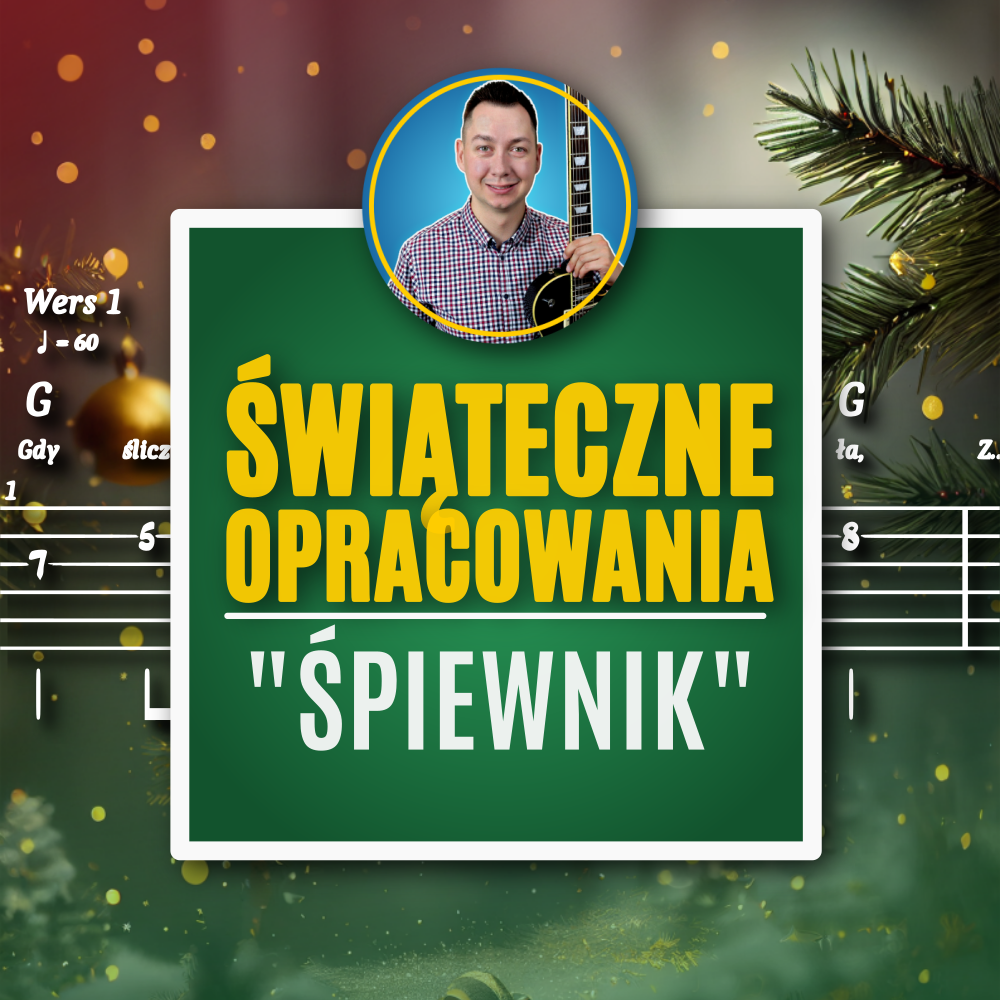
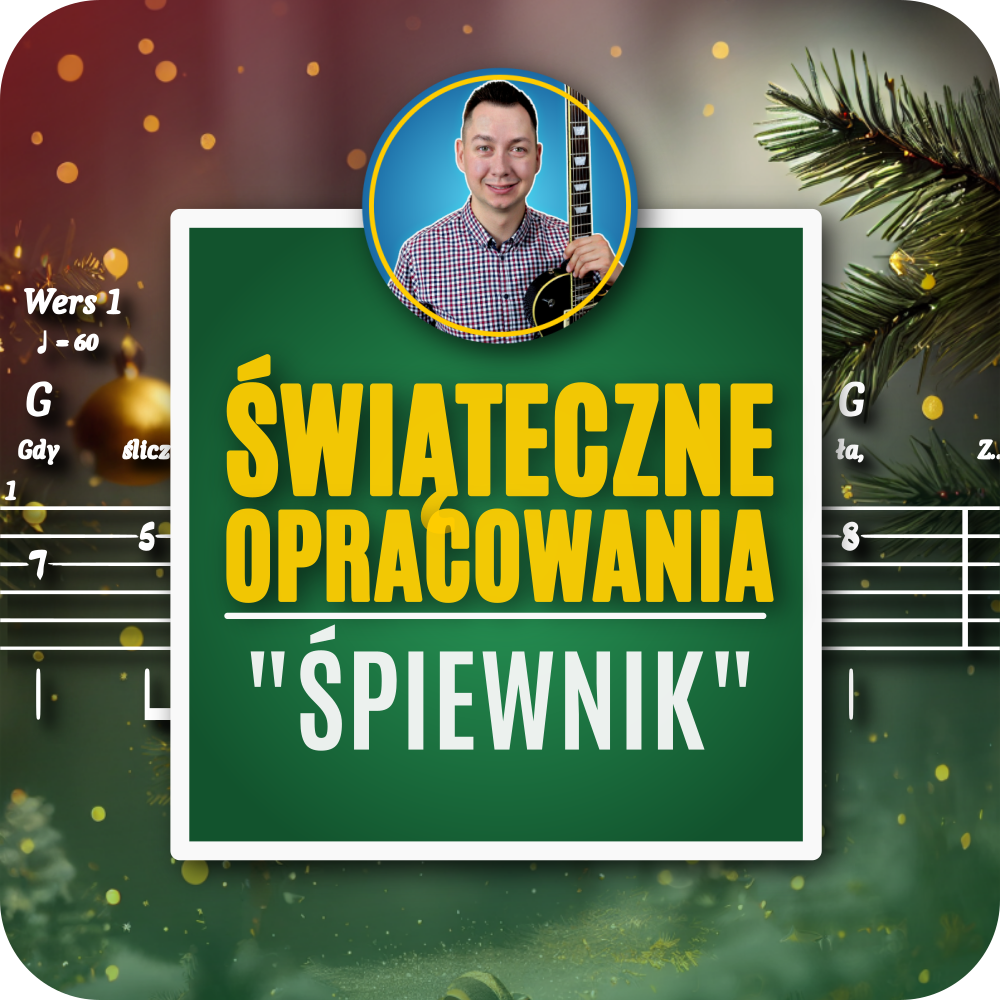
Zaokraglij kwadratowa ikone produktu

diff --git a/sw-swiateczne.js b/sw-swiateczne.js
@@ -1,4 +1,4 @@
-const CACHE_NAME = 'swiateczne-opracowania-v2';
+const CACHE_NAME = 'swiateczne-opracowania-v3';
 const APP_SHELL = [
   './',
   './manifest-swiateczne.webmanifest',
